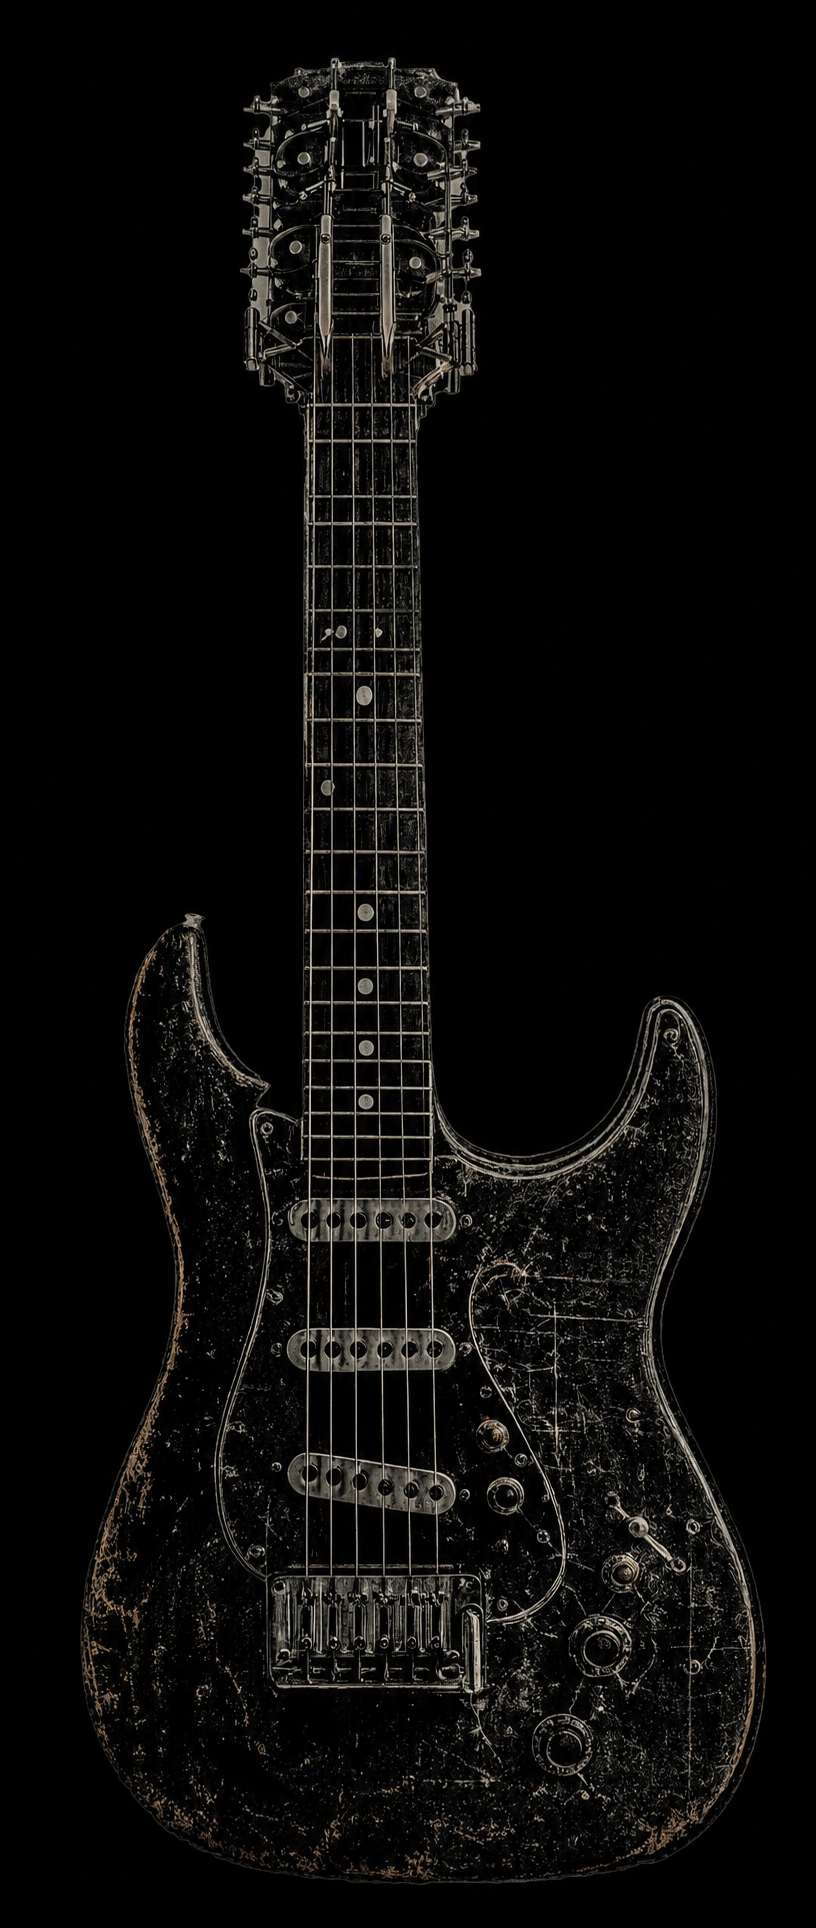
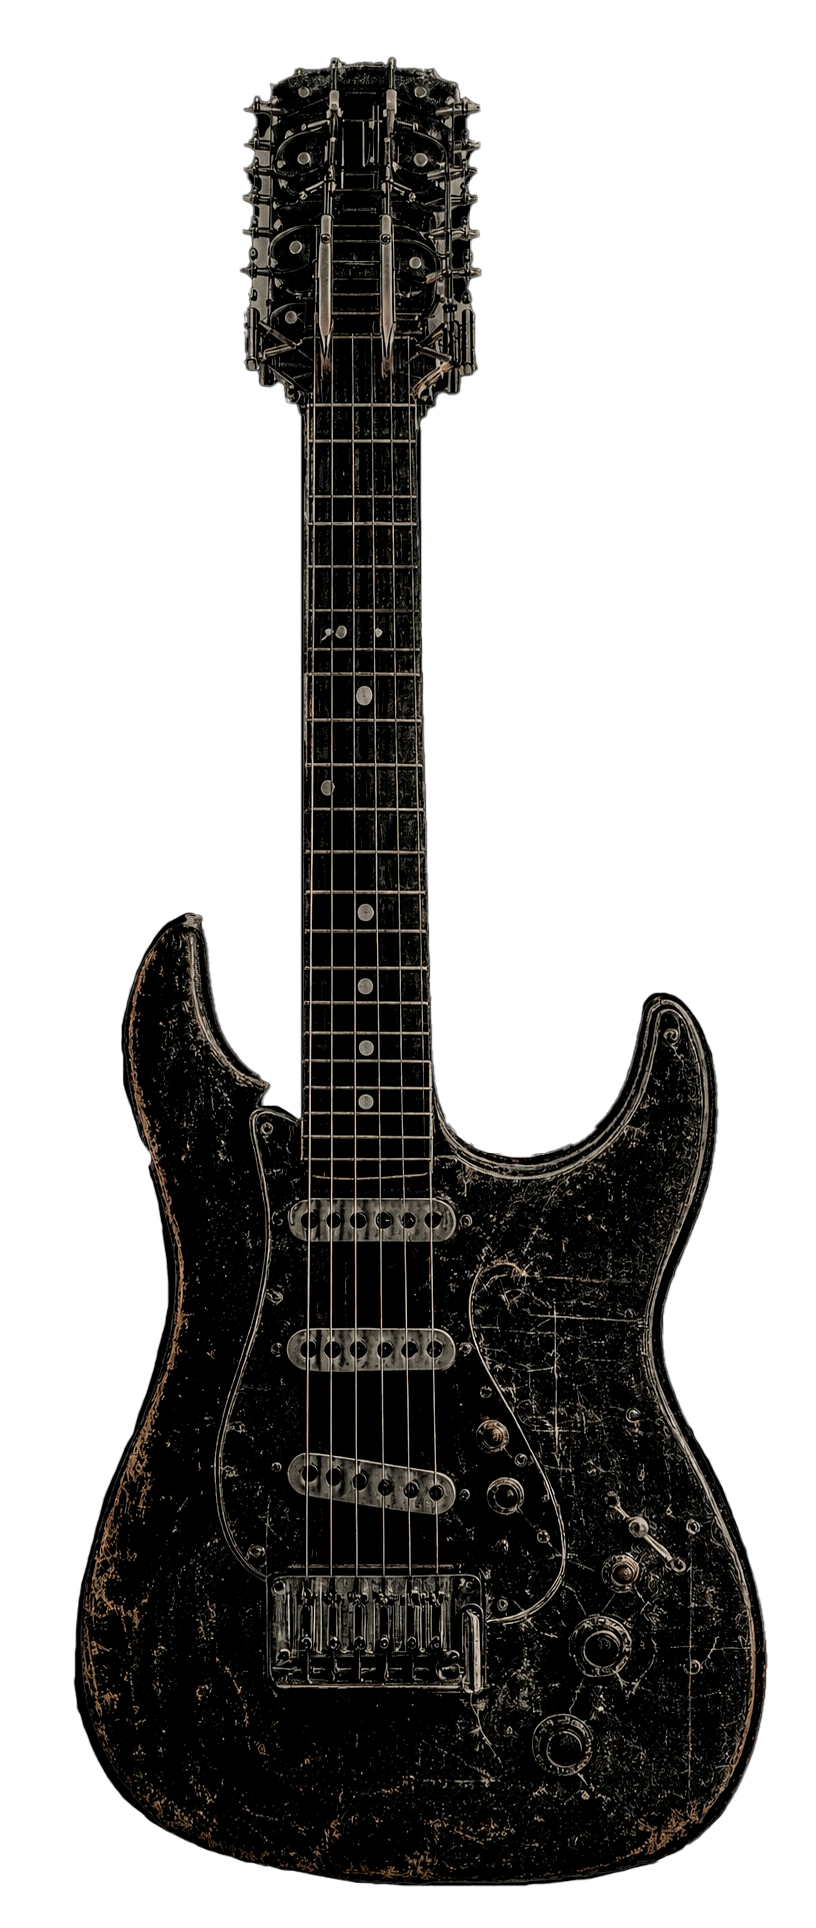
cambio a guitarra sin fondo

diff --git a/css/styles.css b/css/styles.css
@@ -1479,8 +1479,11 @@ body::after {
   height: auto;
   transform: translate(-50%, -50%) rotate(-90deg);
   display: block;
-  border-radius: 6px;
-  box-shadow: 0 0 60px rgba(0,0,0,0.5);
+  /* Luz neón roja que bordea la silueta (requiere PNG con fondo transparente) */
+  filter:
+    drop-shadow(0 0 6px rgba(211,47,47,0.95))
+    drop-shadow(0 0 16px rgba(211,47,47,0.7))
+    drop-shadow(0 0 34px rgba(211,47,47,0.45));
 }
 
 /* Puntos interactivos (círculos rojos sobre la foto) */